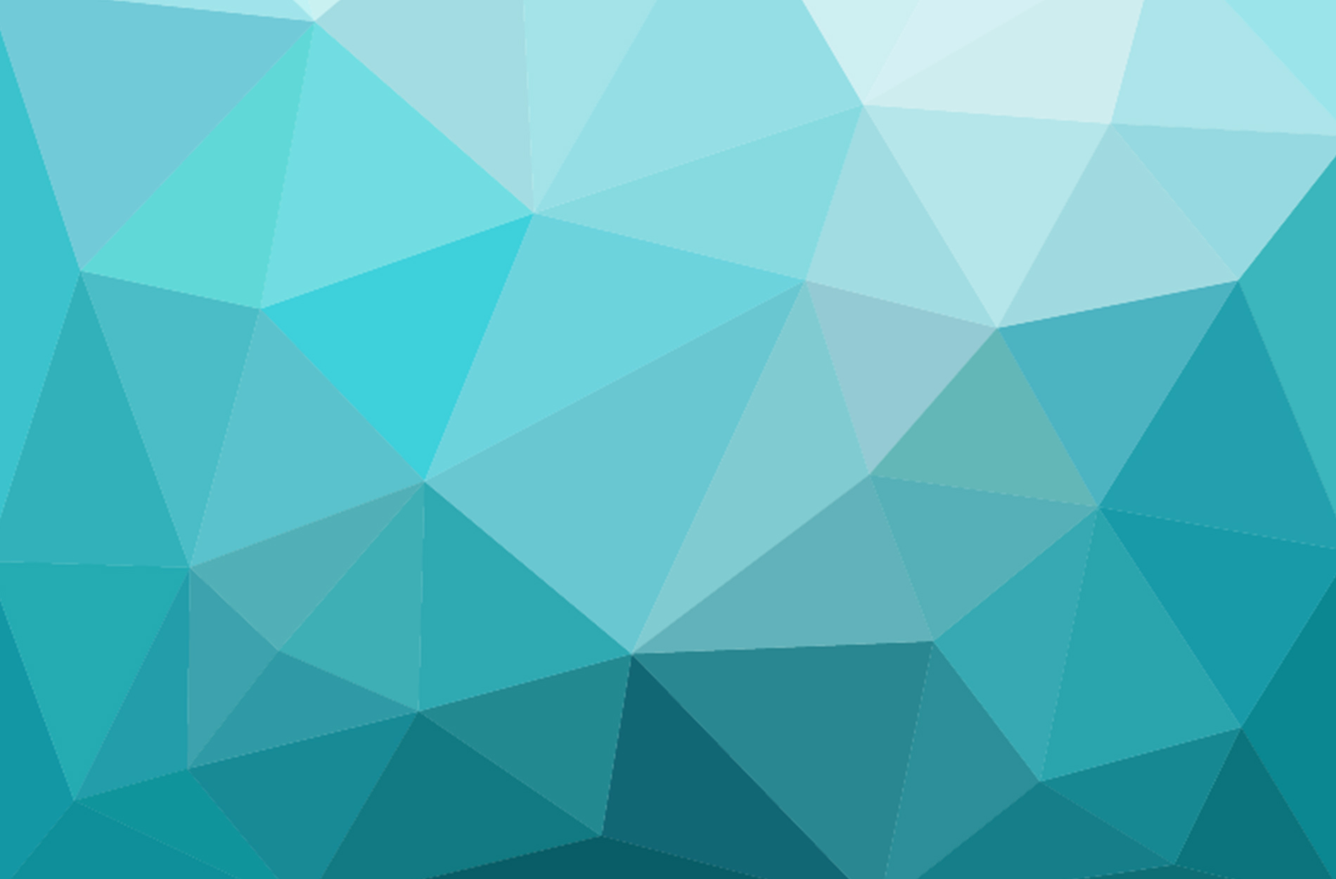
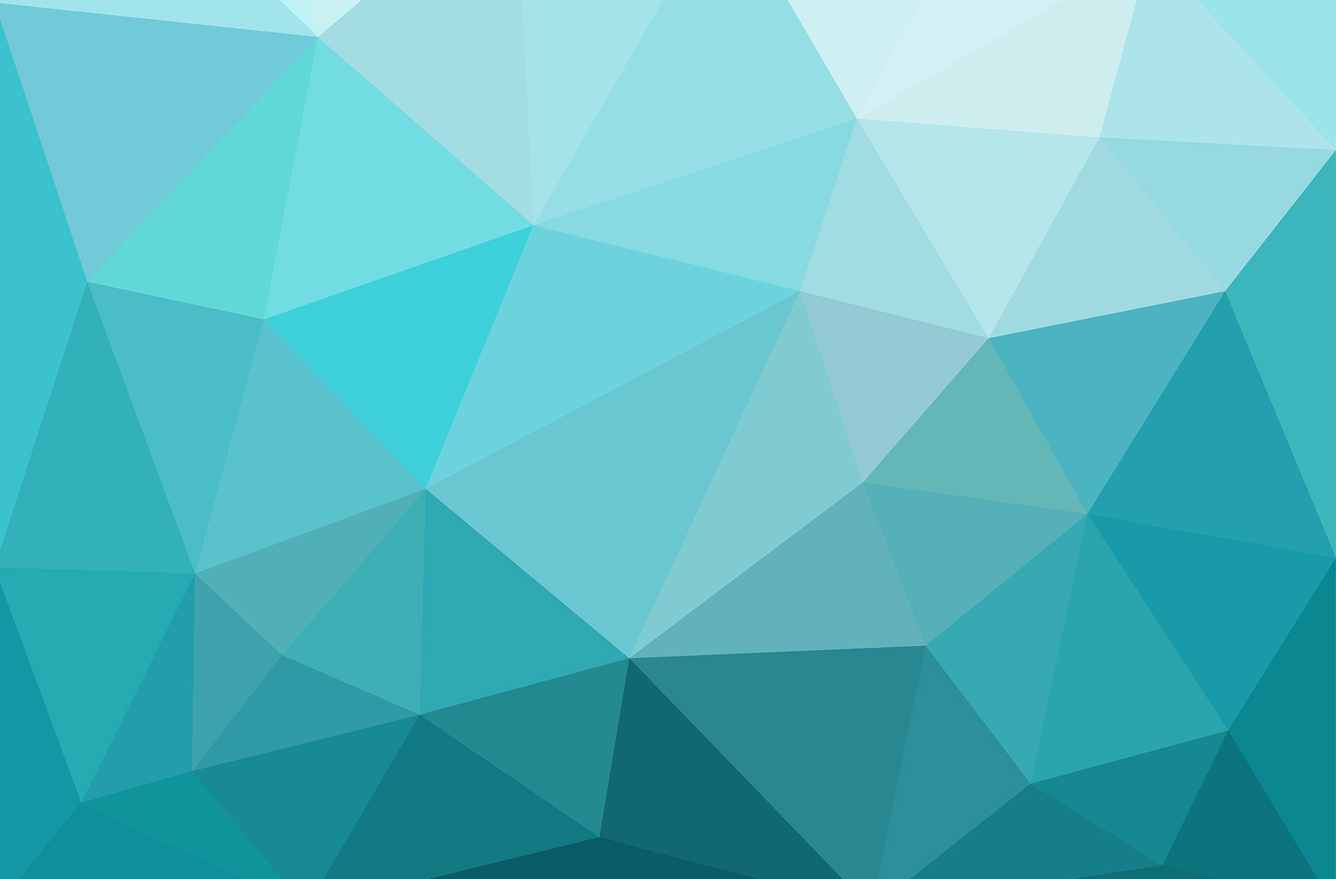
header

diff --git a/css/agency.min.css b/css/agency.min.css
@@ -2,4 +2,4 @@
  * Start Bootstrap - Agency v4.0.0-alpha (http://startbootstrap.com/template-overviews/agency)
  * Copyright 2013-2017 Start Bootstrap
  * Licensed under MIT (https://github.com/BlackrockDigital/startbootstrap-agency/blob/master/LICENSE)
- */body{overflow-x:hidden;font-family:'Roboto Slab','Helvetica Neue',Helvetica,Arial,sans-serif}p{line-height:1.75}a{color:#3eafb5}a.active,a:active,a:focus,a:hover{color:#238991}h1,h2,h3,h4,h5,h6{font-weight:700;font-family:Montserrat,'Helvetica Neue',Helvetica,Arial,sans-serif;text-transform:uppercase}section{padding:100px 0}section h2.section-heading{font-size:40px;margin-top:0;margin-bottom:15px}section h3.section-subheading{font-size:16px;font-weight:400;font-style:italic;margin-bottom:75px;text-transform:none;font-family:'Droid Serif','Helvetica Neue',Helvetica,Arial,sans-serif}@media (min-width:768px){section{padding:150px 0}}::-moz-selection{background:#3eafb5;text-shadow:none}::selection{background:#3eafb5;text-shadow:none}img::selection{background:0 0}img::-moz-selection{background:0 0}body{-webkit-tap-highlight-color:#3eafb5}#mainNav{background-color:#717276}#mainNav .navbar-toggler{font-size:12px;right:0;padding:13px;text-transform:uppercase;color:#fff;border:0;background-color:#3eafb5;font-family:Montserrat,'Helvetica Neue',Helvetica,Arial,sans-serif;text-transform:uppercase}#mainNav .container{padding:0}#mainNav .container .navbar-brand{color:#3eafb5;font-family:'Kaushan Script','Helvetica Neue',Helvetica,Arial,cursive}#mainNav .container .navbar-brand.active,#mainNav .container .navbar-brand:active,#mainNav .container .navbar-brand:focus,#mainNav .container .navbar-brand:hover{color:#238991}#mainNav .container .navbar-nav .nav-item .nav-link{font-size:90%;font-weight:400;padding:.75em 0;letter-spacing:1px;color:#fff;font-family:Montserrat,'Helvetica Neue',Helvetica,Arial,sans-serif;text-transform:uppercase}#mainNav .container .navbar-nav .nav-item .nav-link.active,#mainNav .container .navbar-nav .nav-item .nav-link:hover{color:#3eafb5}@media (min-width:992px){#mainNav{padding:25px 0;-webkit-transition:padding .3s;-moz-transition:padding .3s;transition:padding .3s;border:none;background-color:transparent}#mainNav .navbar-brand{font-size:1.75em;-webkit-transition:all .3s;-moz-transition:all .3s;transition:all .3s}#mainNav .navbar-nav .nav-item .nav-link{padding:1.1em 1em!important}#mainNav.navbar-shrink{padding:0;background-color:#717276}#mainNav.navbar-shrink .navbar-brand{font-size:1.25em;padding:12px 0}}header.masthead{text-align:center;color:#fff;background-image:url(../img/header-bg.png);background-repeat:no-repeat;background-attachment:scroll;background-position:center center;-webkit-background-size:cover;-moz-background-size:cover;-o-background-size:cover;background-size:cover}header.masthead .intro-text{padding-top:100px;padding-bottom:50px}header.masthead .intro-text .intro-lead-in{font-size:22px;font-style:italic;line-height:22px;margin-bottom:25px;font-family:'Droid Serif','Helvetica Neue',Helvetica,Arial,sans-serif}header.masthead .intro-text .intro-heading{font-size:50px;font-weight:700;line-height:50px;margin-bottom:25px;font-family:Montserrat,'Helvetica Neue',Helvetica,Arial,sans-serif;text-transform:uppercase}@media (min-width:768px){header.masthead .intro-text{padding-top:150px;padding-bottom:100px}header.masthead .intro-text .intro-lead-in{font-size:40px;font-style:italic;line-height:40px;margin-bottom:25px;font-family:'Droid Serif','Helvetica Neue',Helvetica,Arial,sans-serif}header.masthead .intro-text .intro-heading{font-size:75px;font-weight:700;line-height:75px;margin-bottom:50px;font-family:Montserrat,'Helvetica Neue',Helvetica,Arial,sans-serif;text-transform:uppercase}}.service-heading{margin:15px 0;text-transform:none}#portfolio .portfolio-item{right:0;margin:0 0 15px}#portfolio .portfolio-item .portfolio-link{position:relative;display:block;max-width:400px;margin:0 auto;cursor:pointer}#portfolio .portfolio-item .portfolio-link .portfolio-hover{position:absolute;width:100%;height:100%;-webkit-transition:all ease .5s;-moz-transition:all ease .5s;transition:all ease .5s;opacity:0;background:rgba(62,175,181,.9)}#portfolio .portfolio-item .portfolio-link .portfolio-hover:hover{opacity:1}#portfolio .portfolio-item .portfolio-link .portfolio-hover .portfolio-hover-content{font-size:20px;position:absolute;top:50%;width:100%;height:20px;margin-top:-12px;text-align:center;color:#fff}#portfolio .portfolio-item .portfolio-link .portfolio-hover .portfolio-hover-content i{margin-top:-12px}#portfolio .portfolio-item .portfolio-link .portfolio-hover .portfolio-hover-content h3,#portfolio .portfolio-item .portfolio-link .portfolio-hover .portfolio-hover-content h4{margin:0}#portfolio .portfolio-item .portfolio-caption{max-width:400px;margin:0 auto;padding:25px;text-align:center;background-color:#fff}#portfolio .portfolio-item .portfolio-caption h4{margin:0;text-transform:none}#portfolio .portfolio-item .portfolio-caption p{font-size:16px;font-style:italic;margin:0;font-family:'Droid Serif','Helvetica Neue',Helvetica,Arial,sans-serif}#portfolio *{z-index:2}@media (min-width:767px){#portfolio .portfolio-item{margin:0 0 30px}}.portfolio-modal .modal-dialog{max-width:none;height:100%;margin:0}.portfolio-modal .modal-content{min-height:100%;padding:100px 0;text-align:center;border:none;border-radius:0;background-clip:border-box;-webkit-box-shadow:none;box-shadow:none}.portfolio-modal .modal-content h2{font-size:3em;margin-bottom:15px}.portfolio-modal .modal-content p{margin-bottom:30px}.portfolio-modal .modal-content p.item-intro{font-size:16px;font-style:italic;margin:20px 0 30px;font-family:'Droid Serif','Helvetica Neue',Helvetica,Arial,sans-serif}.portfolio-modal .modal-content ul.list-inline{margin-top:0;margin-bottom:30px}.portfolio-modal .modal-content img{margin-bottom:30px}.portfolio-modal .modal-content button{cursor:pointer}.portfolio-modal .close-modal{position:absolute;top:25px;right:25px;width:75px;height:75px;cursor:pointer;background-color:transparent}.portfolio-modal .close-modal:hover{opacity:.3}.portfolio-modal .close-modal .lr{z-index:1051;width:1px;height:75px;margin-left:35px;-webkit-transform:rotate(45deg);-ms-transform:rotate(45deg);transform:rotate(45deg);background-color:#222}.portfolio-modal .close-modal .lr .rl{z-index:1052;width:1px;height:75px;-webkit-transform:rotate(90deg);-ms-transform:rotate(90deg);transform:rotate(90deg);background-color:#222}.portfolio-modal .modal-backdrop{display:none;opacity:0}.timeline{position:relative;padding:0;list-style:none}.timeline:before{position:absolute;top:0;bottom:0;left:40px;width:2px;margin-left:-1.5px;content:''}.timeline>li{position:relative;min-height:50px;margin-bottom:50px}.timeline>li:after,.timeline>li:before{display:table;content:' '}.timeline>li:after{clear:both}.timeline>li .timeline-panel{position:relative;float:right;width:100%;padding:0 20px 0 100px;text-align:left}.timeline>li .timeline-panel:before{right:auto;left:-15px;border-right-width:15px;border-left-width:0}.timeline>li .timeline-panel:after{right:auto;left:-14px;border-right-width:14px;border-left-width:0}.timeline>li .timeline-image{position:absolute;z-index:100;left:0;width:80px;height:80px;margin-left:0;text-align:center;color:#fff;border:7px solid #ffffff;border-radius:100%;background-color:#3eafb5}.timeline>li .timeline-image h4{font-size:10px;line-height:14px;margin-top:12px}.timeline>li.timeline-inverted>.timeline-panel{float:right;padding:0 20px 0 100px;text-align:left}.timeline>li.timeline-inverted>.timeline-panel:before{right:auto;left:-15px;border-right-width:15px;border-left-width:0}.timeline>li.timeline-inverted>.timeline-panel:after{right:auto;left:-14px;border-right-width:14px;border-left-width:0}.timeline>li:last-child{margin-bottom:0}.timeline .timeline-heading h4{margin-top:0;color:inherit}.timeline .timeline-heading h4.subheading{text-transform:none}.timeline .timeline-body>p,.timeline .timeline-body>ul{margin-bottom:0}@media (min-width:768px){.timeline:before{left:50%}.timeline>li{min-height:100px;margin-bottom:100px}.timeline>li .timeline-panel{float:left;width:41%;padding:0 20px 20px 30px;text-align:right}.timeline>li .timeline-image{left:50%;width:100px;height:100px;margin-left:-50px}.timeline>li .timeline-image h4{font-size:13px;line-height:18px;margin-top:16px}.timeline>li.timeline-inverted>.timeline-panel{float:right;padding:0 30px 20px 20px;text-align:left}}@media (min-width:992px){.timeline>li{min-height:150px}.timeline>li .timeline-panel{padding:0 20px 20px}.timeline>li .timeline-image{width:150px;height:150px;margin-left:-75px}.timeline>li .timeline-image h4{font-size:18px;line-height:26px;margin-top:30px}.timeline>li.timeline-inverted>.timeline-panel{padding:0 20px 20px}}@media (min-width:1200px){.timeline>li{min-height:170px}.timeline>li .timeline-panel{padding:0 20px 20px 100px}.timeline>li .timeline-image{width:170px;height:170px;margin-left:-85px}.timeline>li .timeline-image h4{margin-top:40px}.timeline>li.timeline-inverted>.timeline-panel{padding:0 100px 20px 20px}}.team-member{margin-top: 40px;margin-bottom:50px;text-align:center}.team-member img{width:225px;height:225px;border:7px solid #fff}.team-member h4{margin-top:25px;margin-bottom:0;text-transform:none}.team-member p{margin-top:0}section#contact{background-color:#222;background-image:url(../img/map-image.png);background-repeat:no-repeat;background-attachment:scroll;background-position:center center;-webkit-background-size:cover;-moz-background-size:cover;-o-background-size:cover;background-size:cover}section#contact .section-heading{color:#fff}section#contact .form-group{margin-bottom:25px}section#contact .form-group input,section#contact .form-group textarea{padding:20px}section#contact .form-group input.form-control{height:auto}section#contact .form-group textarea.form-control{height:236px}section#contact .form-control:focus{border-color:#3eafb5;box-shadow:none}section#contact ::-webkit-input-placeholder{font-weight:700;color:#eee;font-family:Montserrat,'Helvetica Neue',Helvetica,Arial,sans-serif;text-transform:uppercase}section#contact :-moz-placeholder{font-weight:700;color:#eee;font-family:Montserrat,'Helvetica Neue',Helvetica,Arial,sans-serif;text-transform:uppercase}section#contact ::-moz-placeholder{font-weight:700;color:#eee;font-family:Montserrat,'Helvetica Neue',Helvetica,Arial,sans-serif;text-transform:uppercase}section#contact :-ms-input-placeholder{font-weight:700;color:#eee;font-family:Montserrat,'Helvetica Neue',Helvetica,Arial,sans-serif;text-transform:uppercase}section#contact .text-danger{color:#e74c3c}footer{padding:25px 0;text-align:center}footer span.copyright{font-size:90%;line-height:40px;text-transform:none;font-family:Montserrat,'Helvetica Neue',Helvetica,Arial,sans-serif;text-transform:uppercase}footer ul.quicklinks{font-size:90%;line-height:40px;margin-bottom:0;text-transform:none;font-family:Montserrat,'Helvetica Neue',Helvetica,Arial,sans-serif;text-transform:uppercase}ul.social-buttons{margin-bottom:0}ul.social-buttons li a{font-size:20px;line-height:40px;display:block;width:40px;height:40px;-webkit-transition:all .3s;-moz-transition:all .3s;transition:all .3s;color:#fff;border-radius:100%;outline:0;background-color:#222}ul.social-buttons li a:active,ul.social-buttons li a:focus,ul.social-buttons li a:hover{background-color:#3eafb5}.text-primary{color:#3eafb5!important}.btn-primary{font-weight:700;color:#fff;border-color:#3eafb5;background-color:#3eafb5;font-family:Montserrat,'Helvetica Neue',Helvetica,Arial,sans-serif;text-transform:uppercase}.btn-primary.focus,.btn-primary:focus{color:#fff;border-color:#b48b01;background-color:#238991}.btn-primary:hover{color:#fff;border-color:#f6bf01;background-color:#238991}.btn-primary.active,.btn-primary:active,.open>.btn-primary.dropdown-toggle{color:#fff;border-color:#f6bf01;background-color:#238991}.btn-primary.active.focus,.btn-primary.active:focus,.btn-primary.active:hover,.btn-primary:active.focus,.btn-primary:active:focus,.btn-primary:active:hover,.open>.btn-primary.dropdown-toggle.focus,.open>.btn-primary.dropdown-toggle:focus,.open>.btn-primary.dropdown-toggle:hover{color:#fff;border-color:#b48b01;background-color:#dcab01}.btn-primary.active,.btn-primary:active,.open>.btn-primary.dropdown-toggle{background-image:none}.btn-primary.disabled.focus,.btn-primary.disabled:focus,.btn-primary.disabled:hover,.btn-primary[disabled].focus,.btn-primary[disabled]:focus,.btn-primary[disabled]:hover,fieldset[disabled] .btn-primary.focus,fieldset[disabled] .btn-primary:focus,fieldset[disabled] .btn-primary:hover{border-color:#3eafb5;background-color:#3eafb5}.btn-primary .badge{color:#3eafb5;background-color:#fff}.btn-xl{font-size:18px;font-weight:700;padding:20px 40px;border-radius:3px;color:#fff;border-color:#3eafb5;background-color:#3eafb5;font-family:Montserrat,'Helvetica Neue',Helvetica,Arial,sans-serif;text-transform:uppercase}.btn-xl.focus,.btn-xl:focus{color:#fff;border-color:#b48b01;background-color:#238991}.btn-xl:hover{color:#fff;border-color:#f6bf01;background-color:#238991}.btn-xl.active,.btn-xl:active,.open>.btn-xl.dropdown-toggle{color:#fff;border-color:#f6bf01;background-color:#238991}.btn-xl.active.focus,.btn-xl.active:focus,.btn-xl.active:hover,.btn-xl:active.focus,.btn-xl:active:focus,.btn-xl:active:hover,.open>.btn-xl.dropdown-toggle.focus,.open>.btn-xl.dropdown-toggle:focus,.open>.btn-xl.dropdown-toggle:hover{color:#fff;border-color:#b48b01;background-color:#dcab01}.btn-xl.active,.btn-xl:active,.open>.btn-xl.dropdown-toggle{background-image:none}.btn-xl.disabled.focus,.btn-xl.disabled:focus,.btn-xl.disabled:hover,.btn-xl[disabled].focus,.btn-xl[disabled]:focus,.btn-xl[disabled]:hover,fieldset[disabled] .btn-xl.focus,fieldset[disabled] .btn-xl:focus,fieldset[disabled] .btn-xl:hover{border-color:#3eafb5;background-color:#3eafb5}.btn-xl .badge{color:#3eafb5;background-color:#fff}
+ */body{overflow-x:hidden;font-family:'Roboto Slab','Helvetica Neue',Helvetica,Arial,sans-serif}p{line-height:1.75}a{color:#3eafb5}a.active,a:active,a:focus,a:hover{color:#238991}h1,h2,h3,h4,h5,h6{font-weight:700;font-family:Montserrat,'Helvetica Neue',Helvetica,Arial,sans-serif;text-transform:uppercase}section{padding:100px 0}section h2.section-heading{font-size:40px;margin-top:0;margin-bottom:15px}section h3.section-subheading{font-size:16px;font-weight:400;font-style:italic;margin-bottom:75px;text-transform:none;font-family:'Droid Serif','Helvetica Neue',Helvetica,Arial,sans-serif}@media (min-width:768px){section{padding:150px 0}}::-moz-selection{background:#3eafb5;text-shadow:none}::selection{background:#3eafb5;text-shadow:none}img::selection{background:0 0}img::-moz-selection{background:0 0}body{-webkit-tap-highlight-color:#3eafb5}#mainNav{background-color:#717276}#mainNav .navbar-toggler{font-size:12px;right:0;padding:13px;text-transform:uppercase;color:#fff;border:0;background-color:#3eafb5;font-family:Montserrat,'Helvetica Neue',Helvetica,Arial,sans-serif;text-transform:uppercase}#mainNav .container{padding:0}#mainNav .container .navbar-brand{color:#3eafb5;font-family:'Kaushan Script','Helvetica Neue',Helvetica,Arial,cursive}#mainNav .container .navbar-brand.active,#mainNav .container .navbar-brand:active,#mainNav .container .navbar-brand:focus,#mainNav .container .navbar-brand:hover{color:#238991}#mainNav .container .navbar-nav .nav-item .nav-link{font-size:90%;font-weight:400;padding:.75em 0;letter-spacing:1px;color:#fff;font-family:Montserrat,'Helvetica Neue',Helvetica,Arial,sans-serif;text-transform:uppercase}#mainNav .container .navbar-nav .nav-item .nav-link.active,#mainNav .container .navbar-nav .nav-item .nav-link:hover{color:#3eafb5}@media (min-width:992px){#mainNav{padding:25px 0;-webkit-transition:padding .3s;-moz-transition:padding .3s;transition:padding .3s;border:none;background-color:transparent}#mainNav .navbar-brand{font-size:1.75em;-webkit-transition:all .3s;-moz-transition:all .3s;transition:all .3s}#mainNav .navbar-nav .nav-item .nav-link{padding:1.1em 1em!important}#mainNav.navbar-shrink{padding:0;background-color:#717276}#mainNav.navbar-shrink .navbar-brand{font-size:1.25em;padding:12px 0}}header.masthead{text-align:center;color:#fff;background-image:url(../img/header-bg.jpg);background-repeat:no-repeat;background-attachment:scroll;background-position:center center;-webkit-background-size:cover;-moz-background-size:cover;-o-background-size:cover;background-size:cover}header.masthead .intro-text{padding-top:100px;padding-bottom:50px}header.masthead .intro-text .intro-lead-in{font-size:22px;font-style:italic;line-height:22px;margin-bottom:25px;font-family:'Droid Serif','Helvetica Neue',Helvetica,Arial,sans-serif}header.masthead .intro-text .intro-heading{font-size:50px;font-weight:700;line-height:50px;margin-bottom:25px;font-family:Montserrat,'Helvetica Neue',Helvetica,Arial,sans-serif;text-transform:uppercase}@media (min-width:768px){header.masthead .intro-text{padding-top:150px;padding-bottom:100px}header.masthead .intro-text .intro-lead-in{font-size:40px;font-style:italic;line-height:40px;margin-bottom:25px;font-family:'Droid Serif','Helvetica Neue',Helvetica,Arial,sans-serif}header.masthead .intro-text .intro-heading{font-size:75px;font-weight:700;line-height:75px;margin-bottom:50px;font-family:Montserrat,'Helvetica Neue',Helvetica,Arial,sans-serif;text-transform:uppercase}}.service-heading{margin:15px 0;text-transform:none}#portfolio .portfolio-item{right:0;margin:0 0 15px}#portfolio .portfolio-item .portfolio-link{position:relative;display:block;max-width:400px;margin:0 auto;cursor:pointer}#portfolio .portfolio-item .portfolio-link .portfolio-hover{position:absolute;width:100%;height:100%;-webkit-transition:all ease .5s;-moz-transition:all ease .5s;transition:all ease .5s;opacity:0;background:rgba(62,175,181,.9)}#portfolio .portfolio-item .portfolio-link .portfolio-hover:hover{opacity:1}#portfolio .portfolio-item .portfolio-link .portfolio-hover .portfolio-hover-content{font-size:20px;position:absolute;top:50%;width:100%;height:20px;margin-top:-12px;text-align:center;color:#fff}#portfolio .portfolio-item .portfolio-link .portfolio-hover .portfolio-hover-content i{margin-top:-12px}#portfolio .portfolio-item .portfolio-link .portfolio-hover .portfolio-hover-content h3,#portfolio .portfolio-item .portfolio-link .portfolio-hover .portfolio-hover-content h4{margin:0}#portfolio .portfolio-item .portfolio-caption{max-width:400px;margin:0 auto;padding:25px;text-align:center;background-color:#fff}#portfolio .portfolio-item .portfolio-caption h4{margin:0;text-transform:none}#portfolio .portfolio-item .portfolio-caption p{font-size:16px;font-style:italic;margin:0;font-family:'Droid Serif','Helvetica Neue',Helvetica,Arial,sans-serif}#portfolio *{z-index:2}@media (min-width:767px){#portfolio .portfolio-item{margin:0 0 30px}}.portfolio-modal .modal-dialog{max-width:none;height:100%;margin:0}.portfolio-modal .modal-content{min-height:100%;padding:100px 0;text-align:center;border:none;border-radius:0;background-clip:border-box;-webkit-box-shadow:none;box-shadow:none}.portfolio-modal .modal-content h2{font-size:3em;margin-bottom:15px}.portfolio-modal .modal-content p{margin-bottom:30px}.portfolio-modal .modal-content p.item-intro{font-size:16px;font-style:italic;margin:20px 0 30px;font-family:'Droid Serif','Helvetica Neue',Helvetica,Arial,sans-serif}.portfolio-modal .modal-content ul.list-inline{margin-top:0;margin-bottom:30px}.portfolio-modal .modal-content img{margin-bottom:30px}.portfolio-modal .modal-content button{cursor:pointer}.portfolio-modal .close-modal{position:absolute;top:25px;right:25px;width:75px;height:75px;cursor:pointer;background-color:transparent}.portfolio-modal .close-modal:hover{opacity:.3}.portfolio-modal .close-modal .lr{z-index:1051;width:1px;height:75px;margin-left:35px;-webkit-transform:rotate(45deg);-ms-transform:rotate(45deg);transform:rotate(45deg);background-color:#222}.portfolio-modal .close-modal .lr .rl{z-index:1052;width:1px;height:75px;-webkit-transform:rotate(90deg);-ms-transform:rotate(90deg);transform:rotate(90deg);background-color:#222}.portfolio-modal .modal-backdrop{display:none;opacity:0}.timeline{position:relative;padding:0;list-style:none}.timeline:before{position:absolute;top:0;bottom:0;left:40px;width:2px;margin-left:-1.5px;content:''}.timeline>li{position:relative;min-height:50px;margin-bottom:50px}.timeline>li:after,.timeline>li:before{display:table;content:' '}.timeline>li:after{clear:both}.timeline>li .timeline-panel{position:relative;float:right;width:100%;padding:0 20px 0 100px;text-align:left}.timeline>li .timeline-panel:before{right:auto;left:-15px;border-right-width:15px;border-left-width:0}.timeline>li .timeline-panel:after{right:auto;left:-14px;border-right-width:14px;border-left-width:0}.timeline>li .timeline-image{position:absolute;z-index:100;left:0;width:80px;height:80px;margin-left:0;text-align:center;color:#fff;border:7px solid #ffffff;border-radius:100%;background-color:#3eafb5}.timeline>li .timeline-image h4{font-size:10px;line-height:14px;margin-top:12px}.timeline>li.timeline-inverted>.timeline-panel{float:right;padding:0 20px 0 100px;text-align:left}.timeline>li.timeline-inverted>.timeline-panel:before{right:auto;left:-15px;border-right-width:15px;border-left-width:0}.timeline>li.timeline-inverted>.timeline-panel:after{right:auto;left:-14px;border-right-width:14px;border-left-width:0}.timeline>li:last-child{margin-bottom:0}.timeline .timeline-heading h4{margin-top:0;color:inherit}.timeline .timeline-heading h4.subheading{text-transform:none}.timeline .timeline-body>p,.timeline .timeline-body>ul{margin-bottom:0}@media (min-width:768px){.timeline:before{left:50%}.timeline>li{min-height:100px;margin-bottom:100px}.timeline>li .timeline-panel{float:left;width:41%;padding:0 20px 20px 30px;text-align:right}.timeline>li .timeline-image{left:50%;width:100px;height:100px;margin-left:-50px}.timeline>li .timeline-image h4{font-size:13px;line-height:18px;margin-top:16px}.timeline>li.timeline-inverted>.timeline-panel{float:right;padding:0 30px 20px 20px;text-align:left}}@media (min-width:992px){.timeline>li{min-height:150px}.timeline>li .timeline-panel{padding:0 20px 20px}.timeline>li .timeline-image{width:150px;height:150px;margin-left:-75px}.timeline>li .timeline-image h4{font-size:18px;line-height:26px;margin-top:30px}.timeline>li.timeline-inverted>.timeline-panel{padding:0 20px 20px}}@media (min-width:1200px){.timeline>li{min-height:170px}.timeline>li .timeline-panel{padding:0 20px 20px 100px}.timeline>li .timeline-image{width:170px;height:170px;margin-left:-85px}.timeline>li .timeline-image h4{margin-top:40px}.timeline>li.timeline-inverted>.timeline-panel{padding:0 100px 20px 20px}}.team-member{margin-top: 40px;margin-bottom:50px;text-align:center}.team-member img{width:225px;height:225px;border:7px solid #fff}.team-member h4{margin-top:25px;margin-bottom:0;text-transform:none}.team-member p{margin-top:0}section#contact{background-color:#222;background-image:url(../img/map-image.png);background-repeat:no-repeat;background-attachment:scroll;background-position:center center;-webkit-background-size:cover;-moz-background-size:cover;-o-background-size:cover;background-size:cover}section#contact .section-heading{color:#fff}section#contact .form-group{margin-bottom:25px}section#contact .form-group input,section#contact .form-group textarea{padding:20px}section#contact .form-group input.form-control{height:auto}section#contact .form-group textarea.form-control{height:236px}section#contact .form-control:focus{border-color:#3eafb5;box-shadow:none}section#contact ::-webkit-input-placeholder{font-weight:700;color:#eee;font-family:Montserrat,'Helvetica Neue',Helvetica,Arial,sans-serif;text-transform:uppercase}section#contact :-moz-placeholder{font-weight:700;color:#eee;font-family:Montserrat,'Helvetica Neue',Helvetica,Arial,sans-serif;text-transform:uppercase}section#contact ::-moz-placeholder{font-weight:700;color:#eee;font-family:Montserrat,'Helvetica Neue',Helvetica,Arial,sans-serif;text-transform:uppercase}section#contact :-ms-input-placeholder{font-weight:700;color:#eee;font-family:Montserrat,'Helvetica Neue',Helvetica,Arial,sans-serif;text-transform:uppercase}section#contact .text-danger{color:#e74c3c}footer{padding:25px 0;text-align:center}footer span.copyright{font-size:90%;line-height:40px;text-transform:none;font-family:Montserrat,'Helvetica Neue',Helvetica,Arial,sans-serif;text-transform:uppercase}footer ul.quicklinks{font-size:90%;line-height:40px;margin-bottom:0;text-transform:none;font-family:Montserrat,'Helvetica Neue',Helvetica,Arial,sans-serif;text-transform:uppercase}ul.social-buttons{margin-bottom:0}ul.social-buttons li a{font-size:20px;line-height:40px;display:block;width:40px;height:40px;-webkit-transition:all .3s;-moz-transition:all .3s;transition:all .3s;color:#fff;border-radius:100%;outline:0;background-color:#222}ul.social-buttons li a:active,ul.social-buttons li a:focus,ul.social-buttons li a:hover{background-color:#3eafb5}.text-primary{color:#3eafb5!important}.btn-primary{font-weight:700;color:#fff;border-color:#3eafb5;background-color:#3eafb5;font-family:Montserrat,'Helvetica Neue',Helvetica,Arial,sans-serif;text-transform:uppercase}.btn-primary.focus,.btn-primary:focus{color:#fff;border-color:#b48b01;background-color:#238991}.btn-primary:hover{color:#fff;border-color:#f6bf01;background-color:#238991}.btn-primary.active,.btn-primary:active,.open>.btn-primary.dropdown-toggle{color:#fff;border-color:#f6bf01;background-color:#238991}.btn-primary.active.focus,.btn-primary.active:focus,.btn-primary.active:hover,.btn-primary:active.focus,.btn-primary:active:focus,.btn-primary:active:hover,.open>.btn-primary.dropdown-toggle.focus,.open>.btn-primary.dropdown-toggle:focus,.open>.btn-primary.dropdown-toggle:hover{color:#fff;border-color:#b48b01;background-color:#dcab01}.btn-primary.active,.btn-primary:active,.open>.btn-primary.dropdown-toggle{background-image:none}.btn-primary.disabled.focus,.btn-primary.disabled:focus,.btn-primary.disabled:hover,.btn-primary[disabled].focus,.btn-primary[disabled]:focus,.btn-primary[disabled]:hover,fieldset[disabled] .btn-primary.focus,fieldset[disabled] .btn-primary:focus,fieldset[disabled] .btn-primary:hover{border-color:#3eafb5;background-color:#3eafb5}.btn-primary .badge{color:#3eafb5;background-color:#fff}.btn-xl{font-size:18px;font-weight:700;padding:20px 40px;border-radius:3px;color:#fff;border-color:#3eafb5;background-color:#3eafb5;font-family:Montserrat,'Helvetica Neue',Helvetica,Arial,sans-serif;text-transform:uppercase}.btn-xl.focus,.btn-xl:focus{color:#fff;border-color:#b48b01;background-color:#238991}.btn-xl:hover{color:#fff;border-color:#f6bf01;background-color:#238991}.btn-xl.active,.btn-xl:active,.open>.btn-xl.dropdown-toggle{color:#fff;border-color:#f6bf01;background-color:#238991}.btn-xl.active.focus,.btn-xl.active:focus,.btn-xl.active:hover,.btn-xl:active.focus,.btn-xl:active:focus,.btn-xl:active:hover,.open>.btn-xl.dropdown-toggle.focus,.open>.btn-xl.dropdown-toggle:focus,.open>.btn-xl.dropdown-toggle:hover{color:#fff;border-color:#b48b01;background-color:#dcab01}.btn-xl.active,.btn-xl:active,.open>.btn-xl.dropdown-toggle{background-image:none}.btn-xl.disabled.focus,.btn-xl.disabled:focus,.btn-xl.disabled:hover,.btn-xl[disabled].focus,.btn-xl[disabled]:focus,.btn-xl[disabled]:hover,fieldset[disabled] .btn-xl.focus,fieldset[disabled] .btn-xl:focus,fieldset[disabled] .btn-xl:hover{border-color:#3eafb5;background-color:#3eafb5}.btn-xl .badge{color:#3eafb5;background-color:#fff}

diff --git a/css/agency.css b/css/agency.css
@@ -115,7 +115,7 @@ body {
 header.masthead {
   text-align: center;
   color: white;
-  background-image: url("../img/header-bg.png");
+  background-image: url("../img/header-bg.jpg");
   background-repeat: no-repeat;
   background-attachment: scroll;
   background-position: center center;
